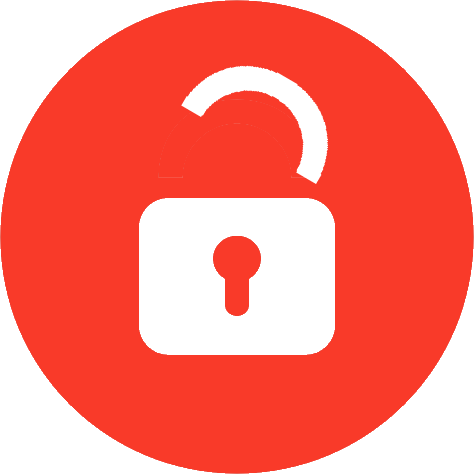
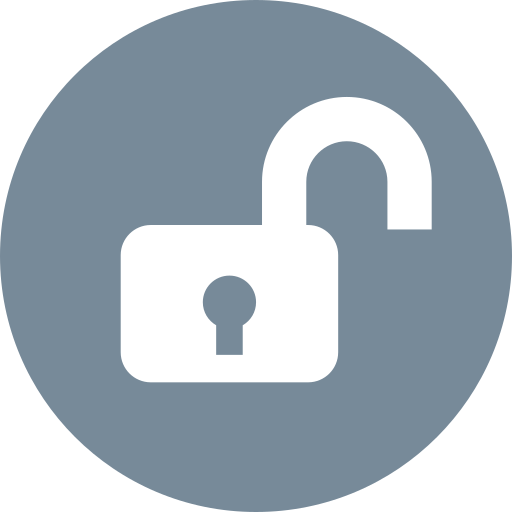
colors changed

diff --git a/public/css/indexPage/resultCard.css b/public/css/indexPage/resultCard.css
@@ -8,8 +8,8 @@
   height: auto;
   width: 600px;
   margin-top: 30px; 
-  background-color: #fafafa;
-  border-radius: 10px;
+  background-color: white;
+  border-radius: 25px;
   transition: 0.1s ease-in;
   overflow: visible;
   box-shadow: 0 4px 6px -1px rgba(0, 0, 0, 0.1), 0 2px 4px -1px rgba(0, 0, 0, 0.06);
@@ -43,7 +43,7 @@
 }
 
 .result-card-twitter-tweet-username {
-  color: #f93a29;
+  color: #778A99;
   font-family: "Roboto", sans-serif;
   font-size: 18px;
   font-weight: bold;
@@ -83,7 +83,7 @@
   height: 30px;
   width: 30px;
   font-size: 24px;
-  color: #f93a29;
+  color: #778A99;
 }
 
 .result-card-stat-name {
@@ -93,8 +93,8 @@
 }
 
 .result-card-stat-img {
-  height: 24px;
-  width: 24px;
+  height: 30px;
+  width: 30px;
   margin-top: 1.5px;
 }
 
@@ -142,7 +142,7 @@
   float: right;
   bottom: -10px;
   right: -10px;
-  background: #f93a29;
+  background: #778A99;
   text-align: center;
   box-shadow: 0 1px 3px rgba(0, 0, 0, 0.12), 0 1px 2px rgba(0, 0, 0, 0.24);
 }
@@ -161,7 +161,7 @@
     height: auto;
     width: 900px;
     margin-top: 60px;
-    border-radius: 15px;
+    border-radius: 50px;
     box-shadow: 0 10px 15px -3px rgba(0, 0, 0, 0.1), 0 4px 6px -2px rgba(0, 0, 0, 0.05);
   }
 
@@ -223,8 +223,8 @@
   }
 
   .result-card-stat-img {
-    height: 48px;
-    width: 48px;
+    height: 55px;
+    width: 55px;
     margin-top: 3px;
   }
 

diff --git a/public/css/indexPage/main.css b/public/css/indexPage/main.css
@@ -128,7 +128,7 @@ body {
   text-align: left;
   font-family: "Roboto", sans-serif;
   font-size: 18px;
-  padding-left: 20px;
+  padding-left: 25px;
 }
 
 #search-field::placeholder {
@@ -164,7 +164,7 @@ body {
   margin: auto;
   margin-top: 150px;
   border: 12px solid transparent; 
-  border-top: 12px double #f93a29;
+  border-top: 12px double #778A99;
   border-radius: 50%;
   width: 75px;
   height: 75px;
@@ -229,31 +229,32 @@ body {
   #search-form {
     width: 910px;
     height: 96px;
-    border-radius: 20px;
+    border-radius: 50px;
     box-shadow: 0 10px 15px -3px rgba(0, 0, 0, 0.1), 0 4px 6px -2px rgba(0, 0, 0, 0.05);
   }
 
   #search-field {
     height: 96px;
     width: 710px;
-    border-top-left-radius: 15px;
-    border-bottom-left-radius: 15px;
+    border-top-left-radius: 50px;
+    border-bottom-left-radius: 50px;
     font-size: 42px;
+    padding-left: 50px;
   }
 
   #search-btn {
     height: 98px;
     width: 180px;
     font-size: 38px;
-    border-top-right-radius: 15px;
-    border-bottom-right-radius: 15px;
+    border-top-right-radius: 50px;
+    border-bottom-right-radius: 50px;
     line-height: 98px;
   }
 
   .loader {
     margin-top: 450px;
     border: 28px solid transparent;
-    border-top: 28px double #f93a29;
+    border-top: 28px double #778A99;
     width: 180px;
     height: 180px;
   }
